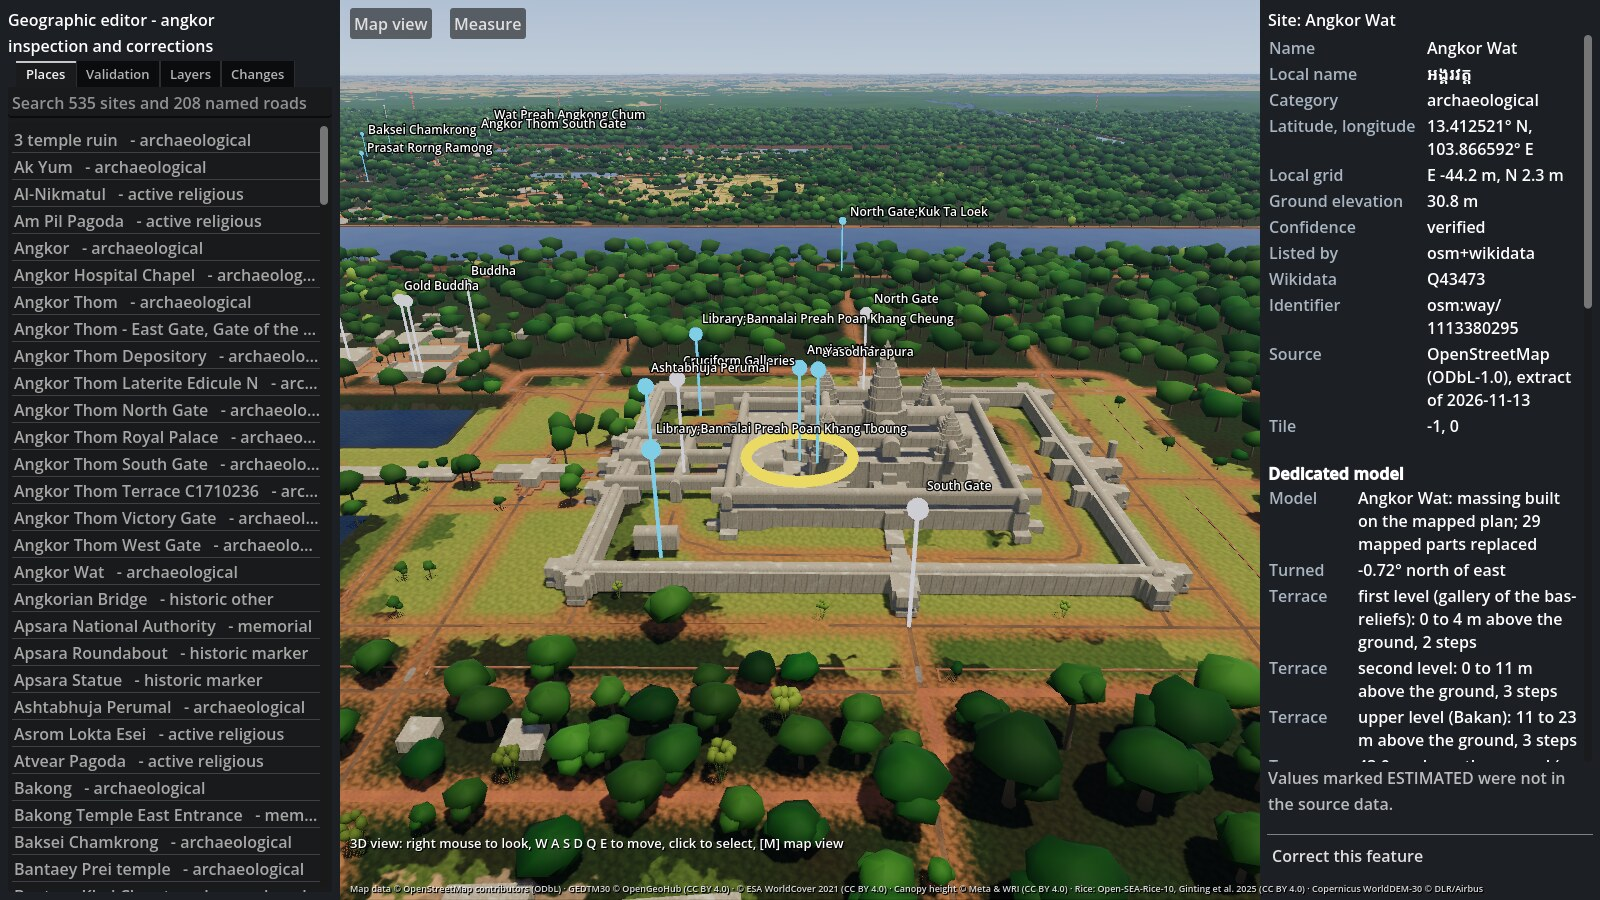
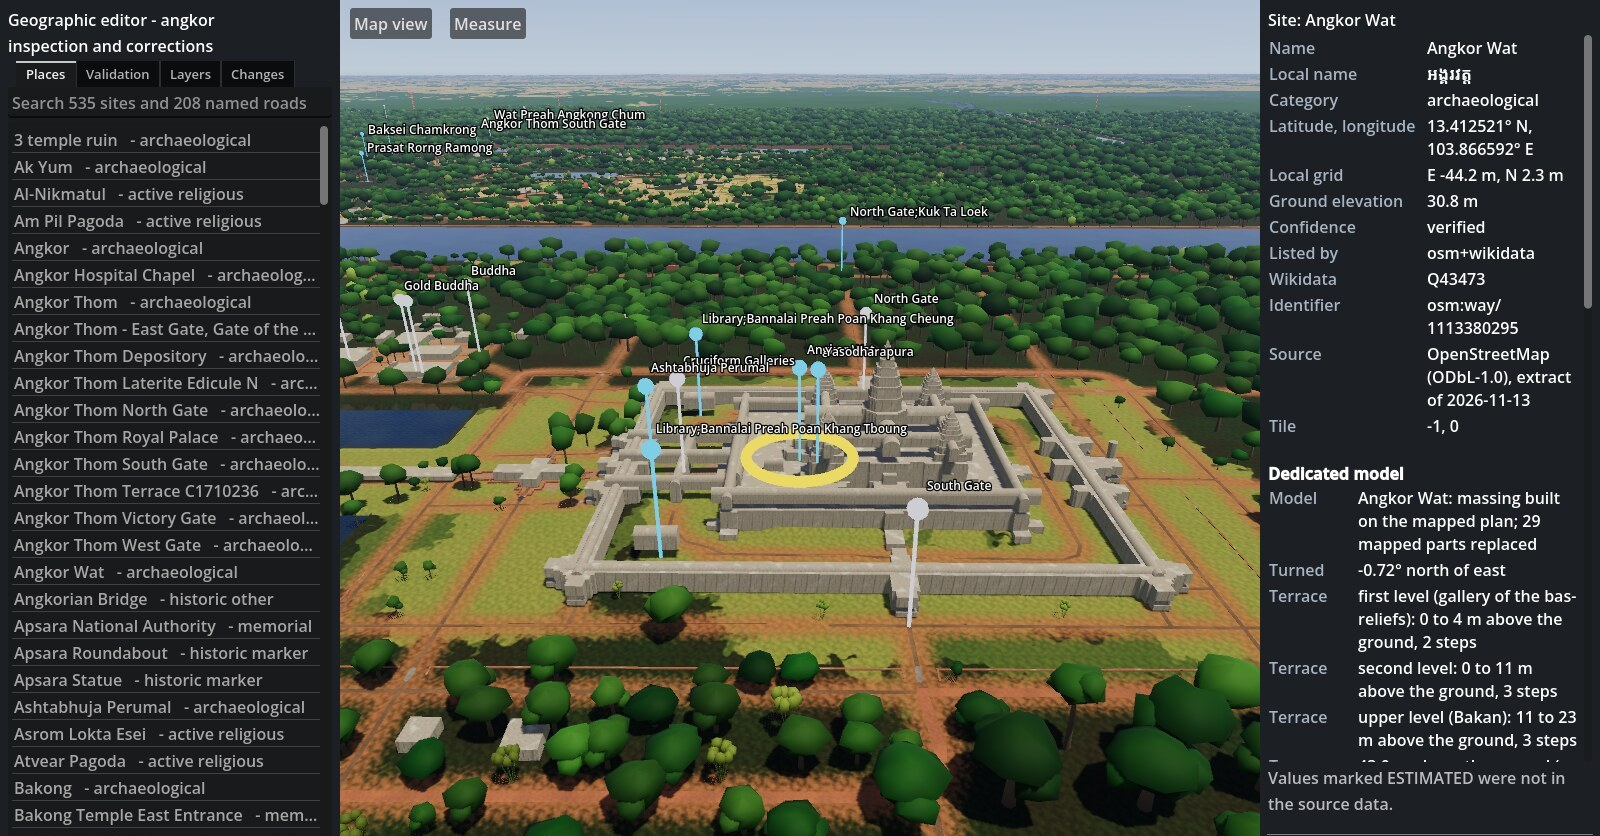
Angkor : captures recadrées sans le texte technique du moteur

diff --git a/src/data/angkor-screens.js b/src/data/angkor-screens.js
@@ -1,6 +1,9 @@
 // Captures d'écran d'Angkor World Engine.
 // Source : dépôt angkor, docs/screenshots/ — captures au 21 novembre 2026.
-// Pour les remplacer : copier les nouvelles images dans src/assets/angkor/ sous le même nom.
+// Recadrées pour enlever le texte technique du moteur : en haut (4 lignes, 5 en vue de conduite)
+// et la ligne de crédits en bas, avec le format 16:9 conservé ; l'éditeur n'est coupé qu'en bas.
+// Les crédits des données sont affichés sur la page (angkor.credits).
+// Pour les remplacer : copier les nouvelles images dans src/assets/angkor/ sous le même nom, recadrées de même.
 //
 // caption : clé du texte dans angkor.gallery.captions de chaque fichier de langue.
 // La première capture est affichée en grand.
